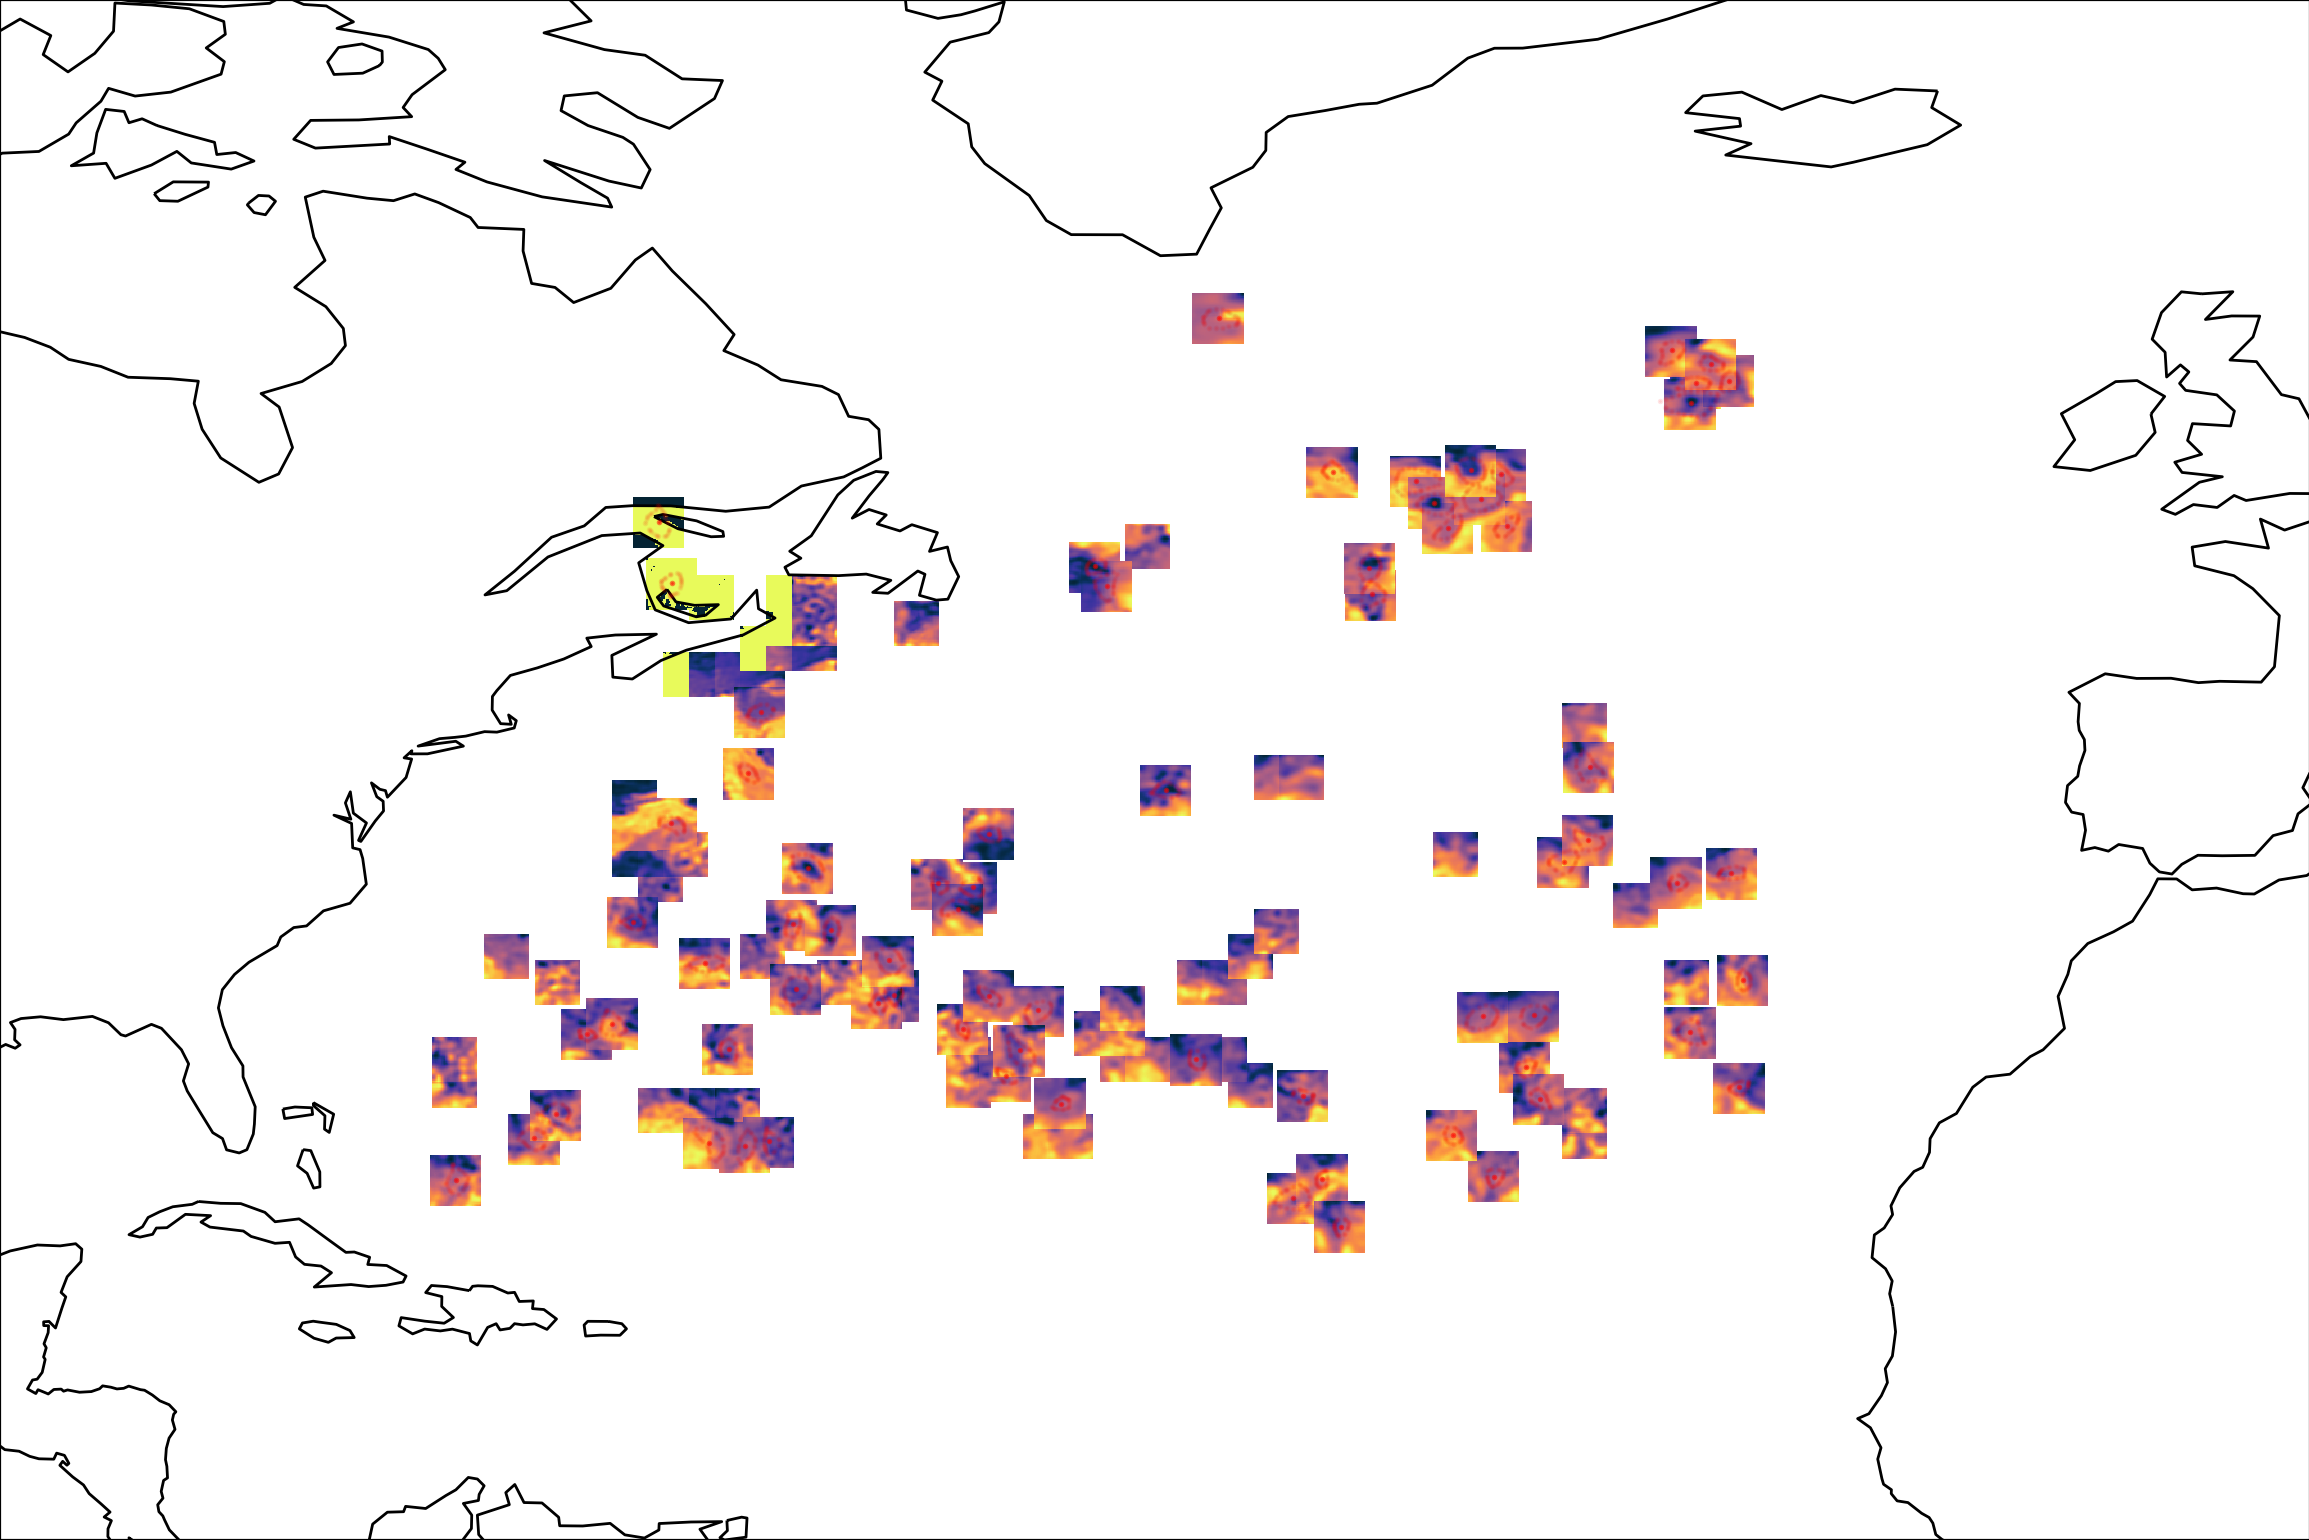
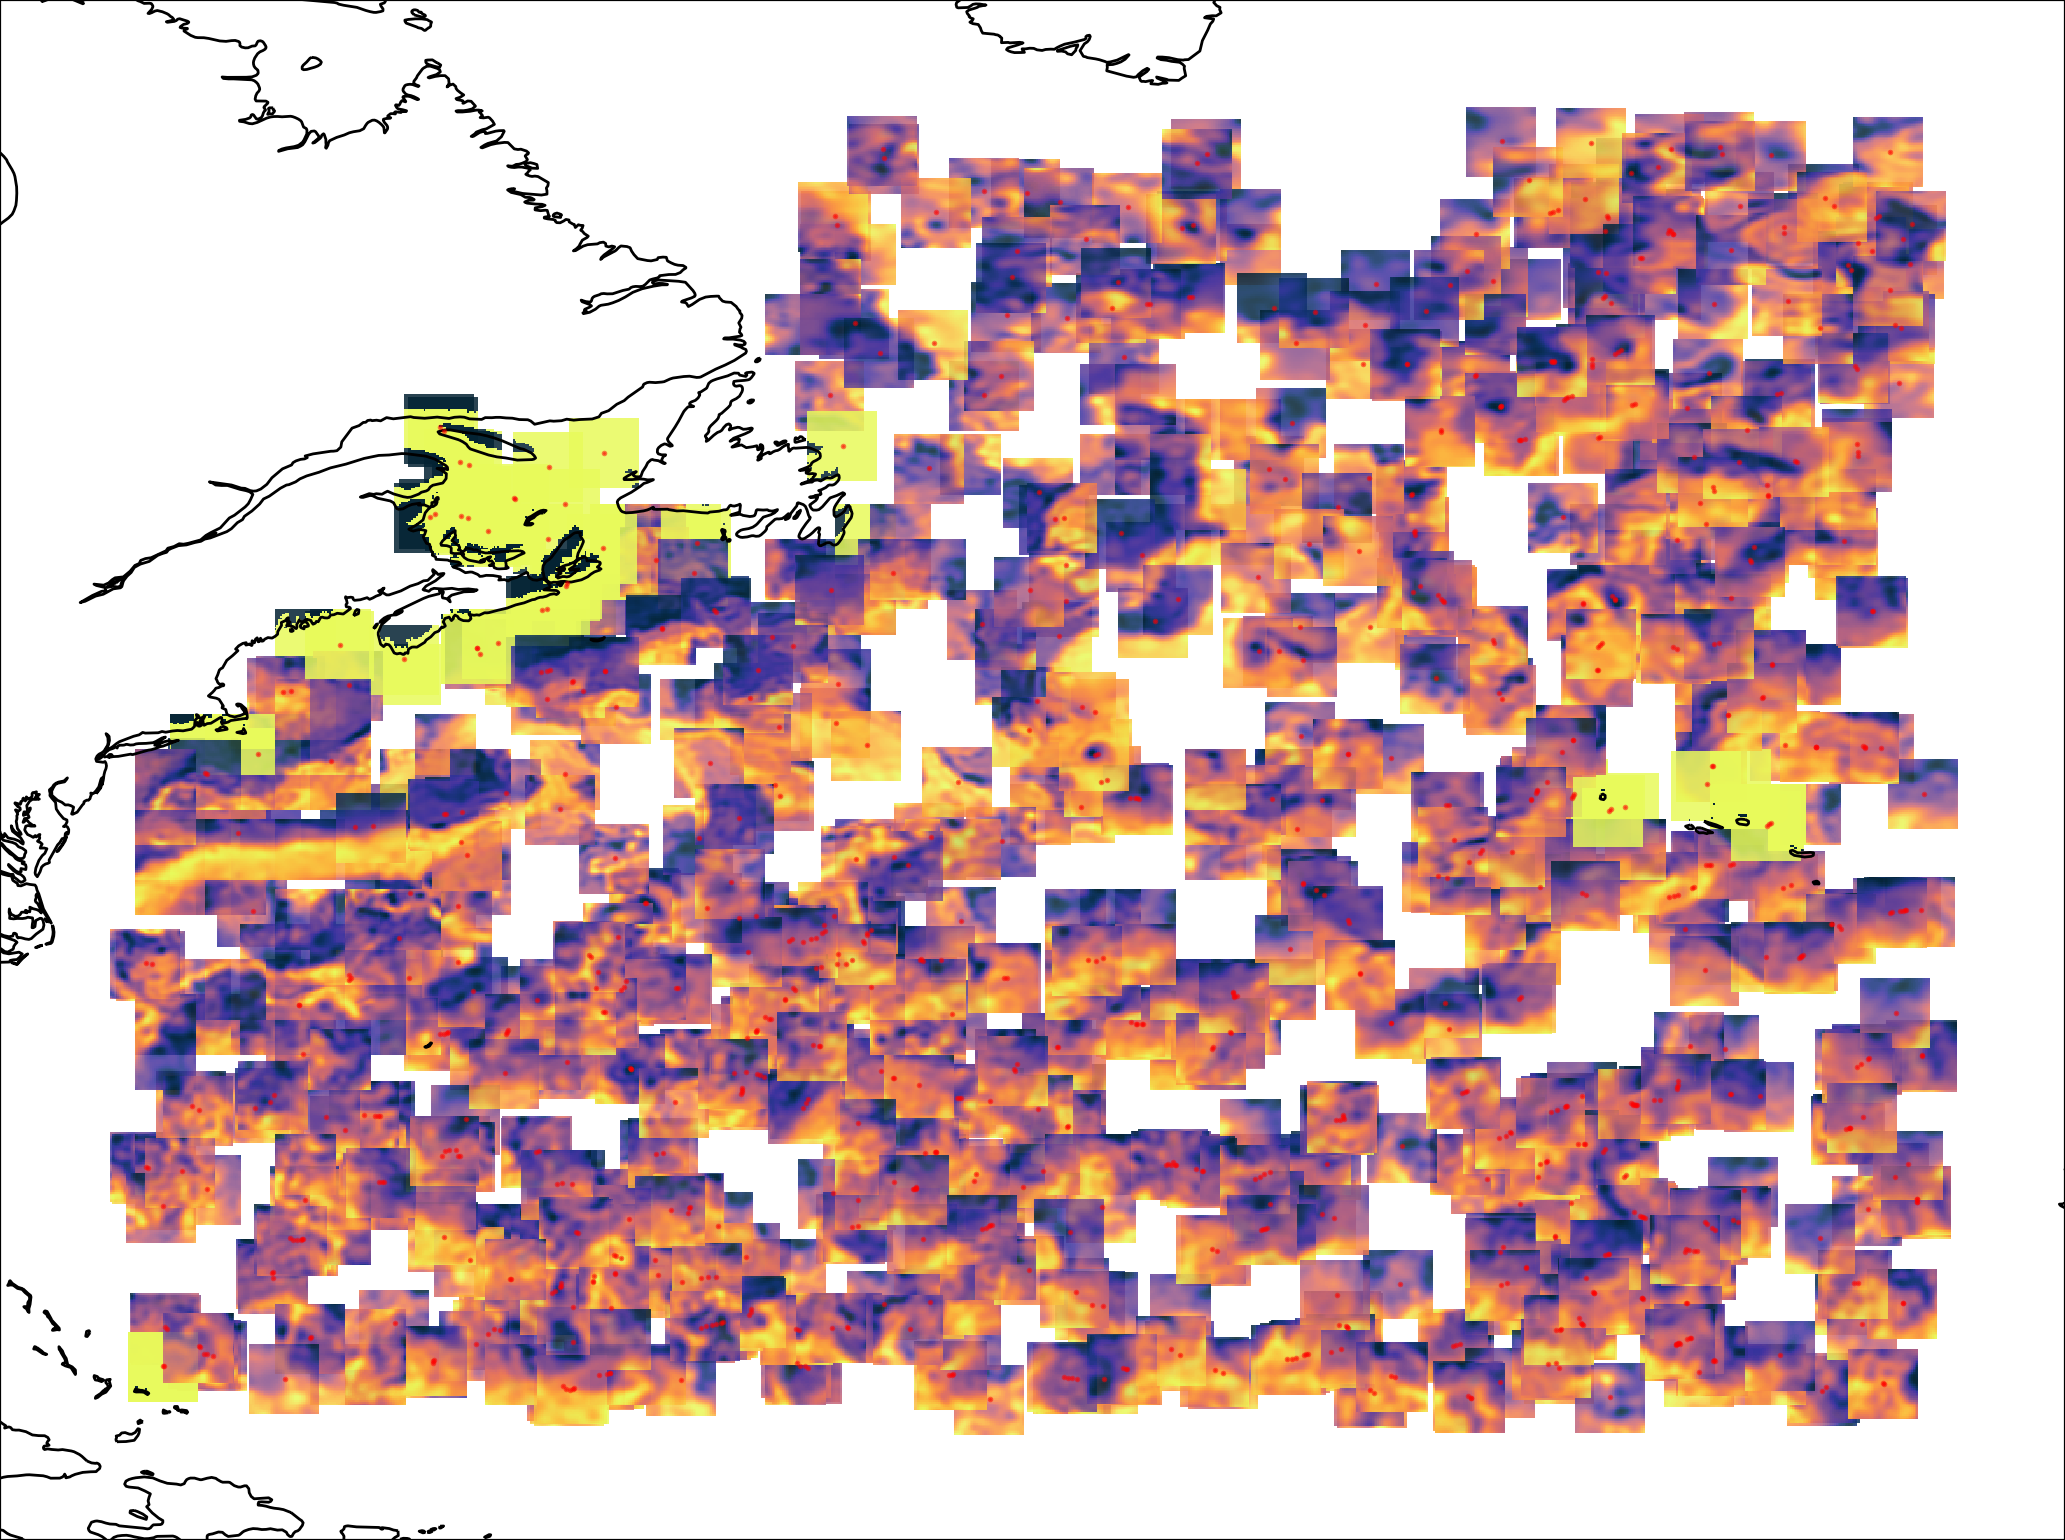
OCES5303: progress on assignment_03

diff --git a/report/report.tex b/report/report.tex
@@ -46,10 +46,10 @@
 
     \subsection{Raw data}
 
-    We have five different folders with data:
+    We have five different folders with data, retrieved from the ``Ocean Eddy Identification'' competition \cite{data:mercatorocean}:
     \begin{description}[labelindent=1cm]
-        \item[TRAIN\_png] - Dated \verb|.png| training images across various categories.
-        \item[TEST\_png] - Dated \verb|.png| testing images across various categories.
+        \item[TRAIN\_png] - Dated \verb|.png| satellite training images across various categories.
+        \item[TEST\_png] - Dated \verb|.png| satellite testing images across various categories.
         \item[LABELS\_TRAIN] - Dated \verb|.csv| files with training labels.
         \item[train\_images\_pkl] - Dated folders, each containing various \verb|.pkl| files for the traning dataset.
         \item[test\_image\_pkl] - Dated folders, each containing various \verb|.pkl| files for the test dataset.
@@ -58,7 +58,9 @@
     The \verb|.pkl| files contain various useful information, such as the contours and centres of the cyclonic and anticyclonic eddy's (in the training set).
     They also contain latitude and longitude positions of the images, which we'll use later for visualization.
 
-    Additionaly, we have labels for the test dataset as a \verb|.pkl| file.
+    Additionally, we have labels for the test dataset as a \verb|.pkl| file.
+
+    Our image labels are one of: \verb|0|, \verb|1| or \verb|2|.
 
     \subsection{Parsing}
 
@@ -67,15 +69,68 @@
     
     Then, we combine all the images, and their corresponding metadata (from the \verb|.pkl| files) into a Pandas \verb|Dataframe|.
 
-    \subsection{Analysis}
+    \section{Exploratory Data Analysis}    
 
+    \subsection{Image categories}
 
+    We have four different image categories, displaying different properties:
+    \begin{description}[labelindent=1cm]
+        \item[SST] - Temperature of the sea surface.
+        \item[CHLA] - Concentration of Chlorophyll-a.
+        \item[SLA] - Sea Level Anomalies (i.e. height of the sea).
+        \item[EDDY] - Contours of the cyclones (as images).
+    \end{description}
+    
+    The figures below, shows a small sample of these images, from top to bottom (SST, CHLA, SLA, EDDY), categorized into our three labels.
+
+    \begin{minipage}{.33\textwidth}
+        \begin{figure}[H]
+            \begin{center}
+                \includegraphics[width=.9\textwidth]{images_with_no_cyclone.png}
+                \caption{No cyclonic eddies}
+            \end{center}
+        \end{figure}
+    \end{minipage}
+    \begin{minipage}{.33\textwidth}
+        \begin{figure}[H]
+            \begin{center}
+                \includegraphics[width=.9\textwidth]{images_with_cyclone.png}
+                \caption{Cyclonic eddies}
+            \end{center}
+        \end{figure}
+    \end{minipage}
+    \begin{minipage}{.33\textwidth}
+        \begin{figure}[H]
+            \begin{center}
+                \includegraphics[width=.9\textwidth]{images_with_anticyclone.png}
+                \caption{Anticyclonic eddies}
+            \end{center}
+        \end{figure}
+    \end{minipage}
+
+    Since our images are from the northern hemisphere (\ref{fig:sst_map}), the anticyclonic eddies and cyclonic eddies
+    are rotating clockwise, and counterclockwise, respectively. \cite{article:nutrition_eddies}
+
+    In a cyclonic eddy, we would expect phytoplankton to grow in the edges of the eddy near the surface (due to the supply of nutrient-rich bottom-water), and
+    therefore show up as a chlorophyll circle in our images. \cite{website:tracking_eddies}
+
+    This does not seem to be very obvious - at least in this small subset of images.
+
+    Furthermore, we would expect the cyclonic eddies (counterclockwise) to have a cold core and the anticyclonic eddies (clockwise) to have a warm core. \cite{article:eddy_temperature}
+    
+    This, however, seems to be quite obvious for the majority of our images.
+
+    \begin{figure}[H]
+        \begin{center}
+            \includegraphics[width=.9\textwidth]{sst_map_train.png}
+            \caption{Subset of SST images drawn on a map, together with cyclone markers (red)}
+            \label{fig:sst_map}
+        \end{center}
+    \end{figure}
 
 %    \tableofcontents
 %    \newpage
 
-
-
-%    \newpage
-%    \printbibliography
+   \newpage
+   \printbibliography
 \end{document}